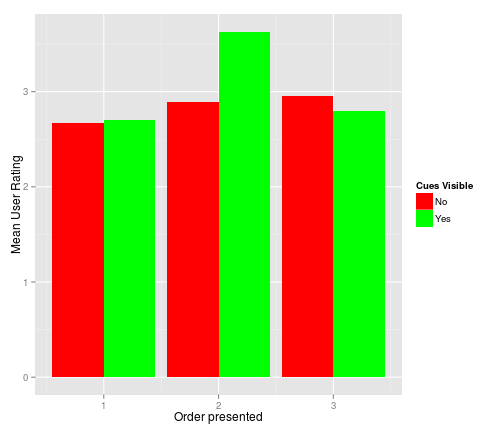
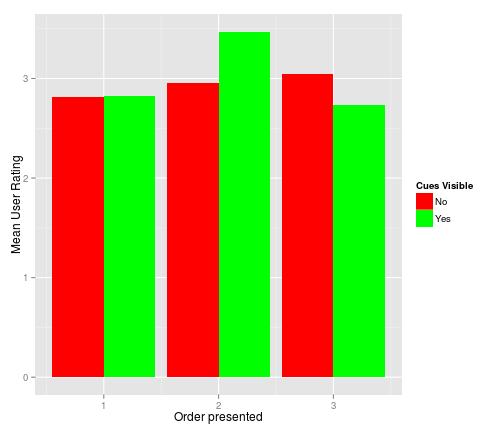
Changed to non-parametric correlations and tests.

diff --git a/rhtml/tables.html b/rhtml/tables.html
@@ -121,14 +121,14 @@ h3{font-family: 'Lato', sans-serif; size:12px;}
 
 
 <h2>1. Correlation between subject scores and community rating (when hidden or visible)</h2>
-<div class="chunk" id="unnamed-chunk-3"><div class="rcode"><div class="output"><pre class="knitr r"><!-- html table generated in R 3.0.1 by xtable 1.7-1 package -->
-<!-- Wed Jul  3 21:22:52 2013 -->
+<div class="chunk" id="unnamed-chunk-3"><div class="rcode"><div class="output"><pre class="knitr r"><!-- html table generated in R 3.0.2 by xtable 1.7-1 package -->
+<!-- Tue Nov 12 20:43:21 2013 -->
 <TABLE border=1>
 <CAPTION ALIGN="bottom"> Spearman's correlation </CAPTION>
 <TR> <TH>  </TH> <TH> Cues Not Shown </TH> <TH> Cues Shown </TH>  </TR>
-  <TR> <TD align="right"> Coefficient </TD> <TD align="right"> 0.26 </TD> <TD align="right"> 2.47 </TD> </TR>
-  <TR> <TD align="right"> df </TD> <TD align="right"> 298.00 </TD> <TD align="right"> 351.00 </TD> </TR>
-  <TR> <TD align="right"> p </TD> <TD align="right"> 0.80 </TD> <TD align="right"> 0.01 </TD> </TR>
+  <TR> <TD align="right"> Coefficient </TD> <TD align="right"> -0.29 </TD> <TD align="right"> 2.92 </TD> </TR>
+  <TR> <TD align="right"> df </TD> <TD align="right"> 415.00 </TD> <TD align="right"> 435.00 </TD> </TR>
+  <TR> <TD align="right"> p </TD> <TD align="right"> 0.77 </TD> <TD align="right"> 0.00 </TD> </TR>
    </TABLE>
 </pre></div></div></div>
 
@@ -140,13 +140,13 @@ h3{font-family: 'Lato', sans-serif; size:12px;}
 <div class="chunk" id="unnamed-chunk-5"><div class="rimage default"><img src="figure/unnamed-chunk-5.png" title="plot of chunk unnamed-chunk-5" alt="plot of chunk unnamed-chunk-5" class="plot" /></div></div>
 
 
-<div class="chunk" id="unnamed-chunk-6"><div class="rcode"><div class="output"><pre class="knitr r"><!-- html table generated in R 3.0.1 by xtable 1.7-1 package -->
-<!-- Wed Jul  3 21:22:53 2013 -->
+<div class="chunk" id="unnamed-chunk-6"><div class="rcode"><div class="output"><pre class="knitr r"><!-- html table generated in R 3.0.2 by xtable 1.7-1 package -->
+<!-- Tue Nov 12 20:43:22 2013 -->
 <TABLE border=1>
 <TR> <TH>  </TH> <TH> Welch Two Sample t-test </TH>  </TR>
-  <TR> <TD align="right"> t statistic </TD> <TD align="right"> -2.10 </TD> </TR>
-  <TR> <TD align="right"> df </TD> <TD align="right"> 637.64 </TD> </TR>
-  <TR> <TD align="right"> p </TD> <TD align="right"> 0.04 </TD> </TR>
+  <TR> <TD align="right"> t statistic </TD> <TD align="right"> -0.41 </TD> </TR>
+  <TR> <TD align="right"> df </TD> <TD align="right"> 850.70 </TD> </TR>
+  <TR> <TD align="right"> p </TD> <TD align="right"> 0.68 </TD> </TR>
    </TABLE>
 </pre></div></div></div>
 
